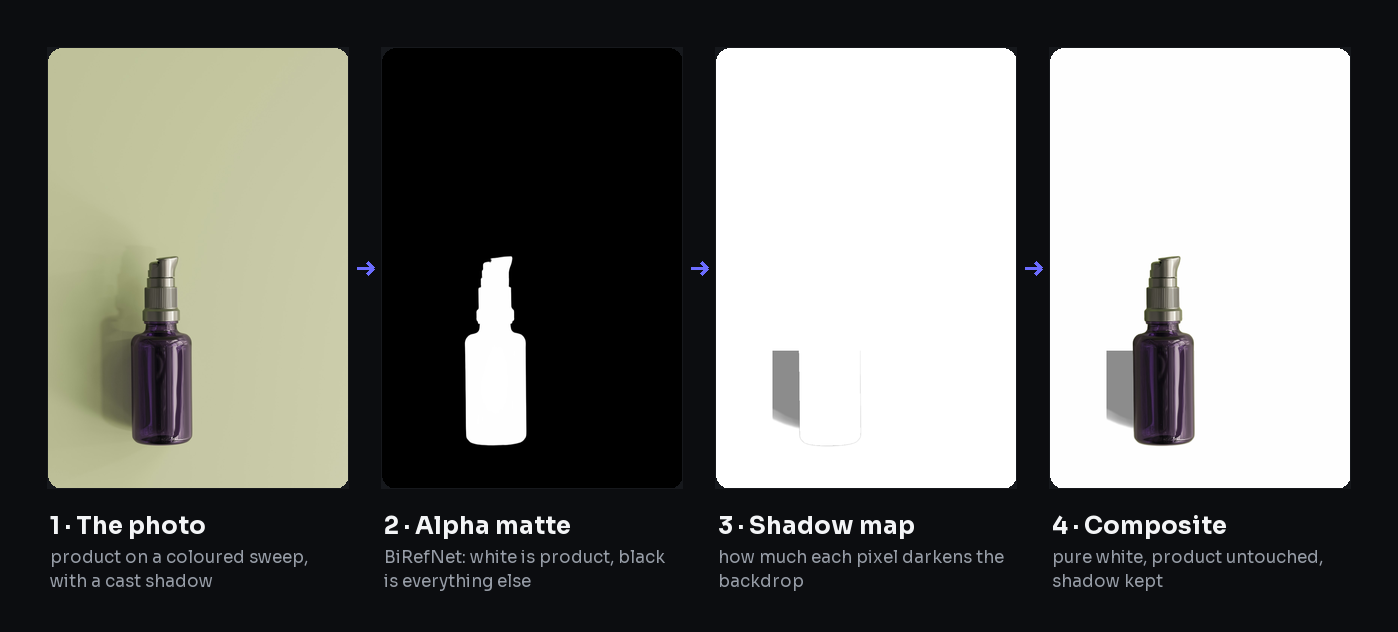
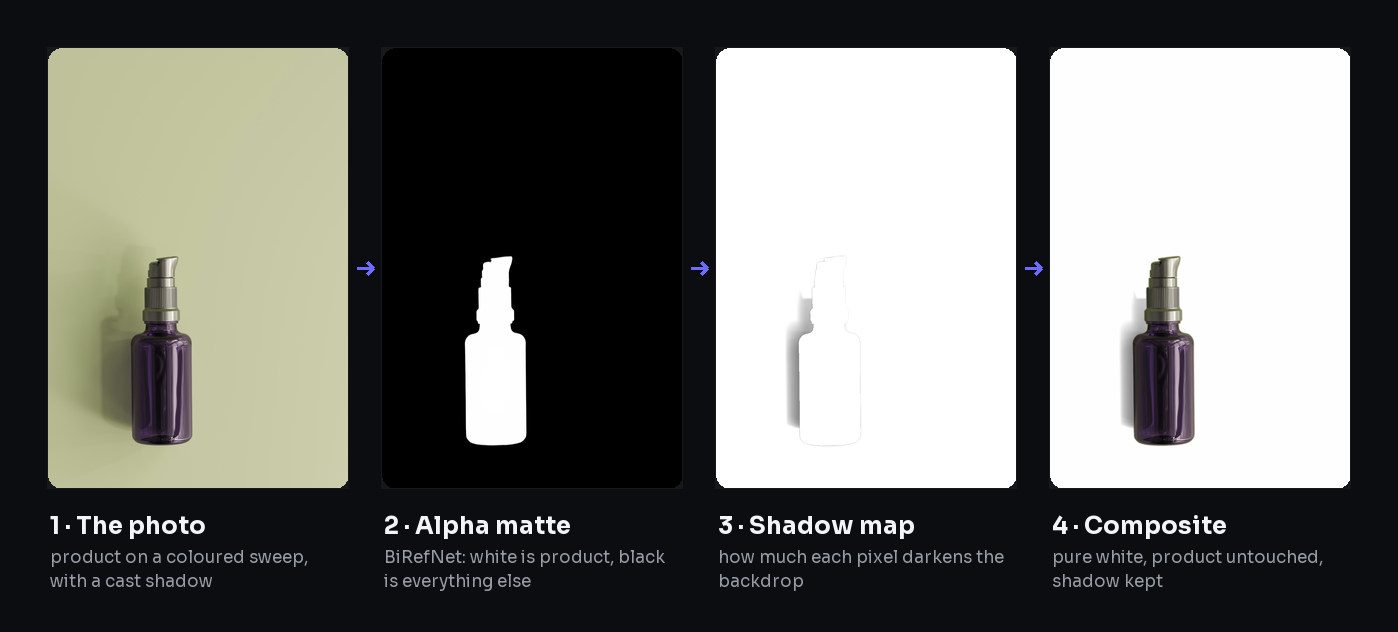
fix: soft shadow falloff in the doc figures
make_figures.py still clipped the shadow to a rectangular box (perto_do_produto),
which left a hard-edged grey stub in the README demo. Replace it with the same
distance-falloff field src/backdrop.ts already uses, so a long shadow fades with
distance instead of ending on a straight edge. Regenerate the media.

Changed region(s): [[0.769, 0.481, 0.8305, 0.6614], [0.5536, 0.481, 0.5844, 0.6915]]

diff --git a/docs/make_figures.py b/docs/make_figures.py
@@ -81,20 +81,15 @@ def so_o_produto(fundo: np.ndarray) -> np.ndarray:
     return limpo
 
 
-def perto_do_produto(produto: np.ndarray) -> np.ndarray:
-    """A studio shadow falls on the floor: from the middle of the product downwards, and close by.
+def vizinhanca(produto: np.ndarray) -> np.ndarray:
+    """How close each pixel is to the product: 1 at the product, falling to 0 far away.
 
-    Without this the multiply keeps any dark patch in the frame, not just the shadow.
+    Mirrors src/backdrop.ts. The shadow is scaled by this field instead of being clipped to a box,
+    so a long shadow fades with distance rather than ending on a straight edge.
     """
-    ys, xs = np.where(produto)
-    if not ys.size:
-        return np.ones_like(produto)
-    alcance = int(max(produto.shape) * 0.06)
-    meio = (ys.min() + ys.max()) // 2
-    faixa = np.zeros_like(produto)
-    faixa[meio:min(produto.shape[0], ys.max() + alcance),
-          max(0, xs.min() - alcance):min(produto.shape[1], xs.max() + alcance)] = True
-    return faixa
+    raio = max(4, int(max(produto.shape) * 0.06)) | 1
+    campo = cv2.blur(produto.astype(np.float32), (raio, raio))
+    return np.minimum(1.0, np.sqrt(campo * 2.2))
 
 
 def main(entrada: Path) -> None:
@@ -111,10 +106,12 @@ def main(entrada: Path) -> None:
     fundo = so_o_produto(alfa <= ALFA_PRODUTO)
     base = luz_do_fundo(luz, fundo)
 
-    fator = np.clip(luz / np.maximum(base, 1.0), SOMBRA_MIN, 1.0)
-    fator = np.where(fator > 1 - RUGA, 1.0, fator)          # fabric fold -> white
+    medido = np.clip(luz / np.maximum(base, 1.0), SOMBRA_MIN, 1.0)
+    perto = vizinhanca(~fundo)
+    # Fold -> white; real shadow fades with distance from the product instead of being boxed off.
+    fator = np.where(medido > 1 - RUGA, 1.0, 1.0 - (1.0 - medido) * perto)
     fator = cv2.blur(fator, (7, 7))                          # the shadow has no grain
-    mapa = np.where(fundo & perto_do_produto(~fundo), fator, 1.0)
+    mapa = np.where(fundo, fator, 1.0)
     cv2.imwrite(str(SAIDA / "03-shadow-map.png"), (mapa * 255).astype(np.uint8))
 
     # Composite: white times the shadow factor outside the product, original bytes inside.
